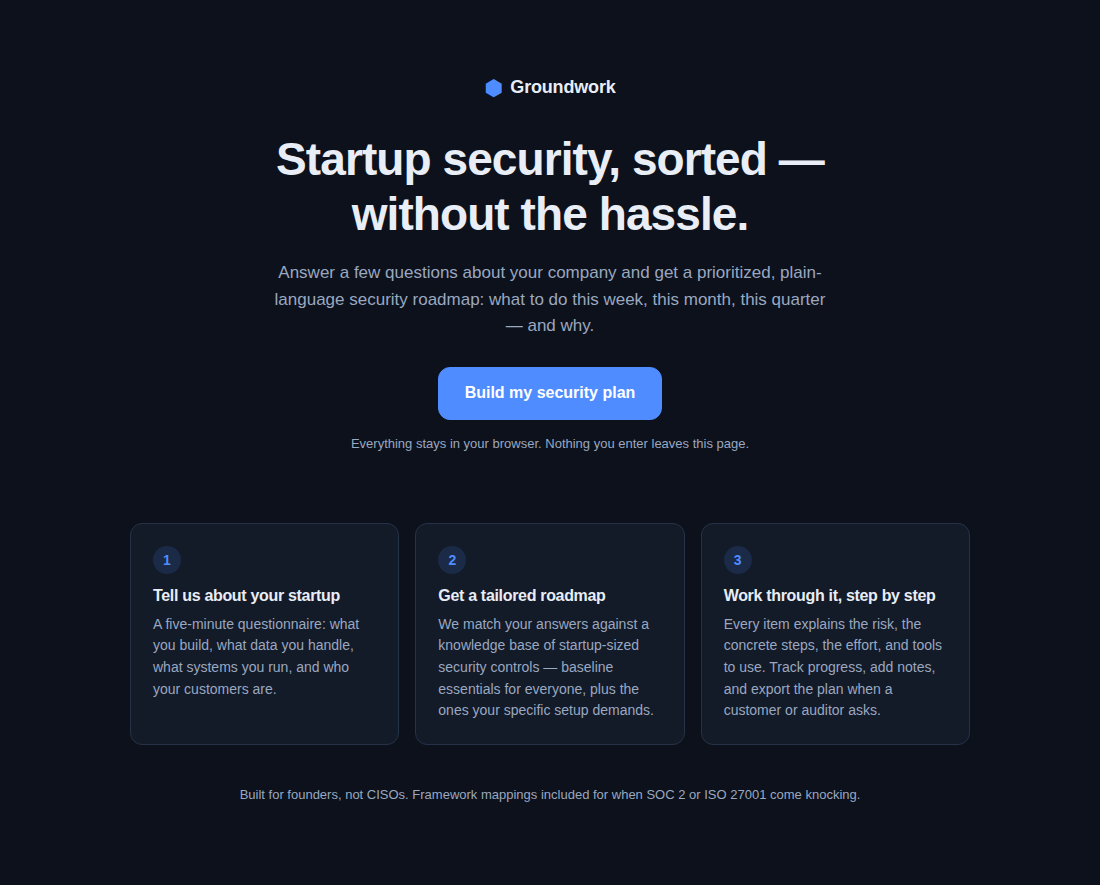
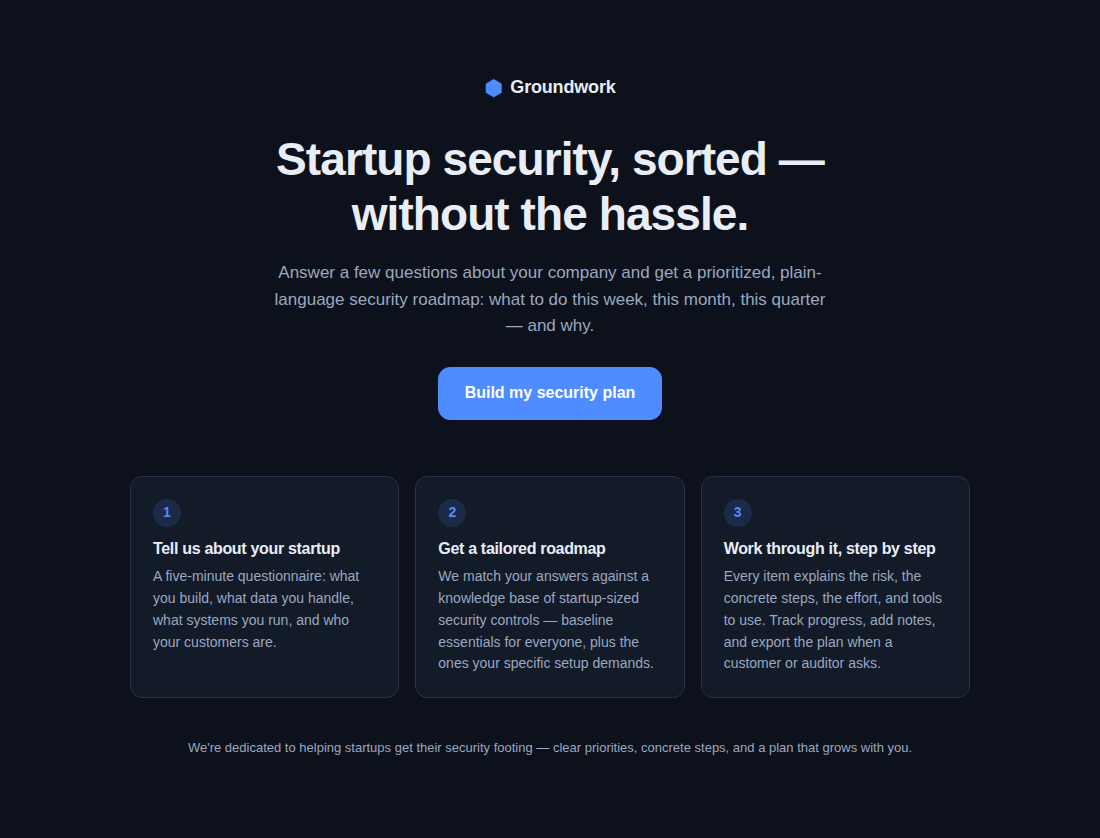
Revise landing copy: mission-focused footer, drop browser-privacy claim
Claude-Session: https://claude.ai/code/session_01PLEMYzj4Zdoeyj1TBuHLvg

diff --git a/groundwork/src/components/Landing.tsx b/groundwork/src/components/Landing.tsx
@@ -39,9 +39,6 @@ export function Landing({ onStart }: Props) {
         <button className="btn btn-primary btn-lg" onClick={onStart}>
           Build my security plan
         </button>
-        <p className="privacy-note">
-          Everything stays in your browser. Nothing you enter leaves this page.
-        </p>
       </header>
 
       <section className="landing-steps">
@@ -55,8 +52,8 @@ export function Landing({ onStart }: Props) {
       </section>
 
       <footer className="landing-footer">
-        Built for founders, not CISOs. Framework mappings included for when
-        SOC 2 or ISO 27001 come knocking.
+        We're dedicated to helping startups get their security footing —
+        clear priorities, concrete steps, and a plan that grows with you.
       </footer>
     </div>
   );

diff --git a/groundwork/src/styles.css b/groundwork/src/styles.css
@@ -126,11 +126,6 @@ h3 {
   max-width: 560px;
   margin: 0 auto 28px;
 }
-.privacy-note {
-  color: var(--text-dim);
-  font-size: 13px;
-  margin-top: 14px;
-}
 .landing-steps {
   display: grid;
   grid-template-columns: repeat(auto-fit, minmax(220px, 1fr));

diff --git a/groundwork/README.md b/groundwork/README.md
@@ -37,8 +37,8 @@ ongoing habits.
    (to do / in progress / done / N/A), add notes, filter by category, and
    export the whole plan as Markdown.
 
-Everything runs client-side; profile and progress persist in
-`localStorage`. Nothing you enter leaves the browser.
+The app runs client-side, with profile and progress persisted in
+`localStorage`.
 
 ## Development
 